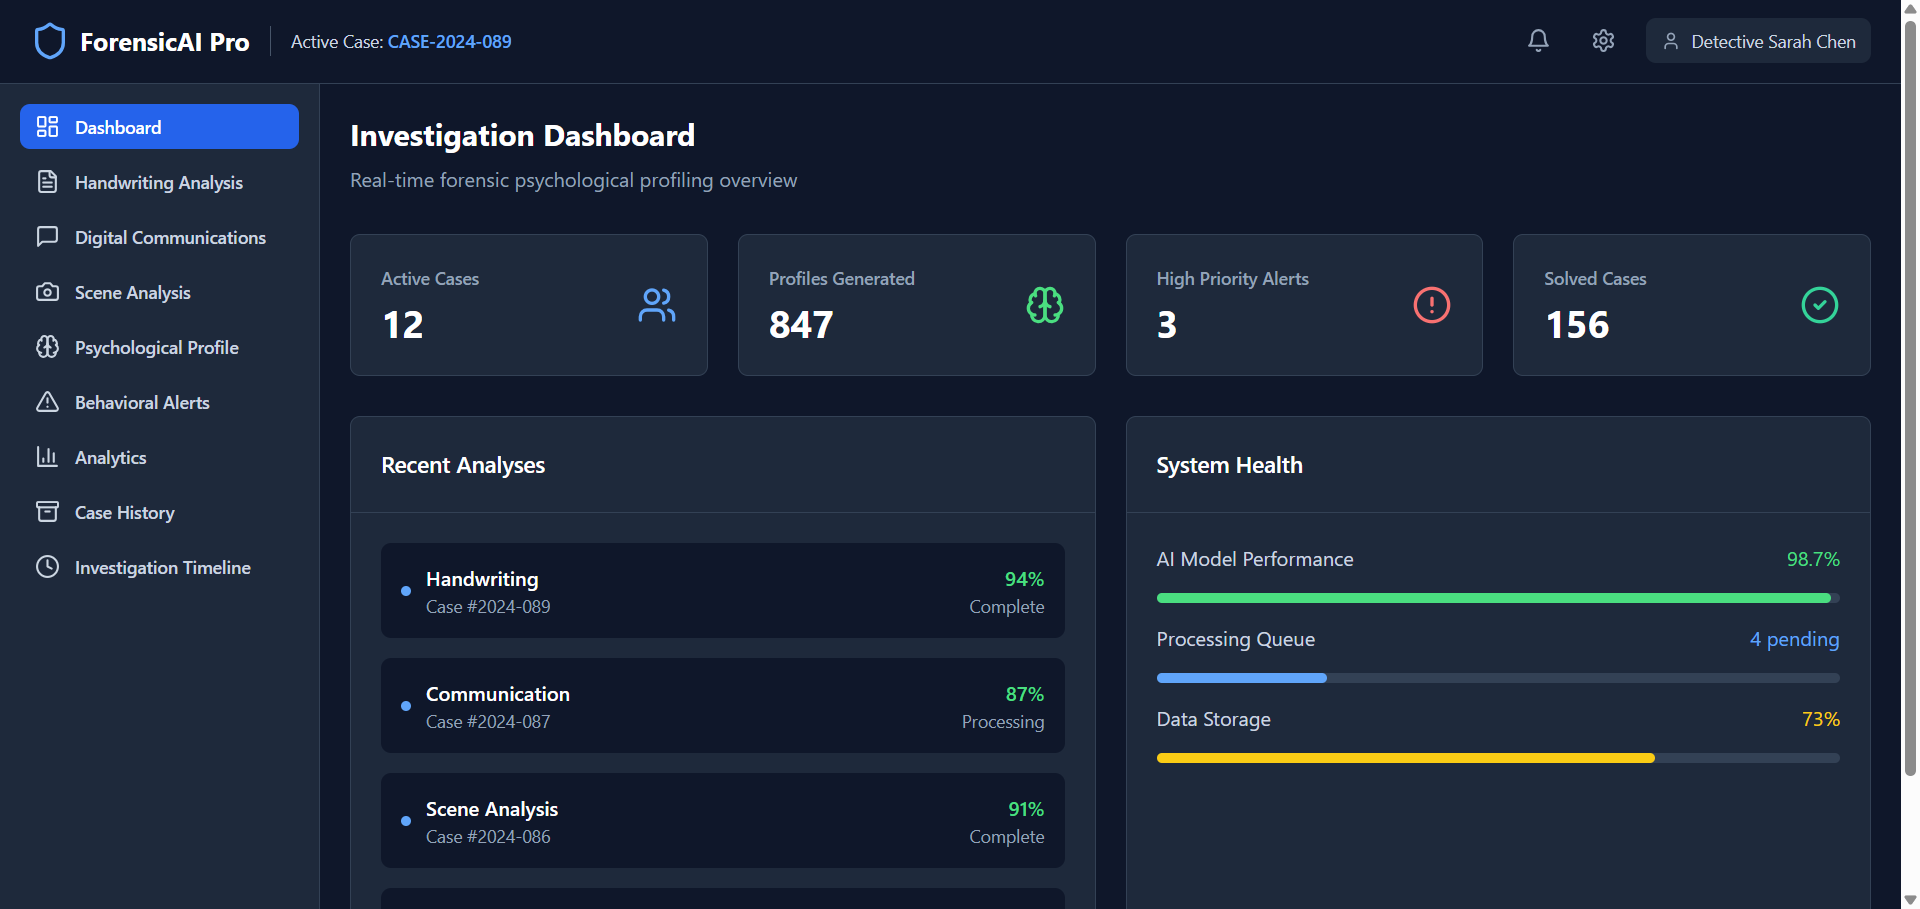
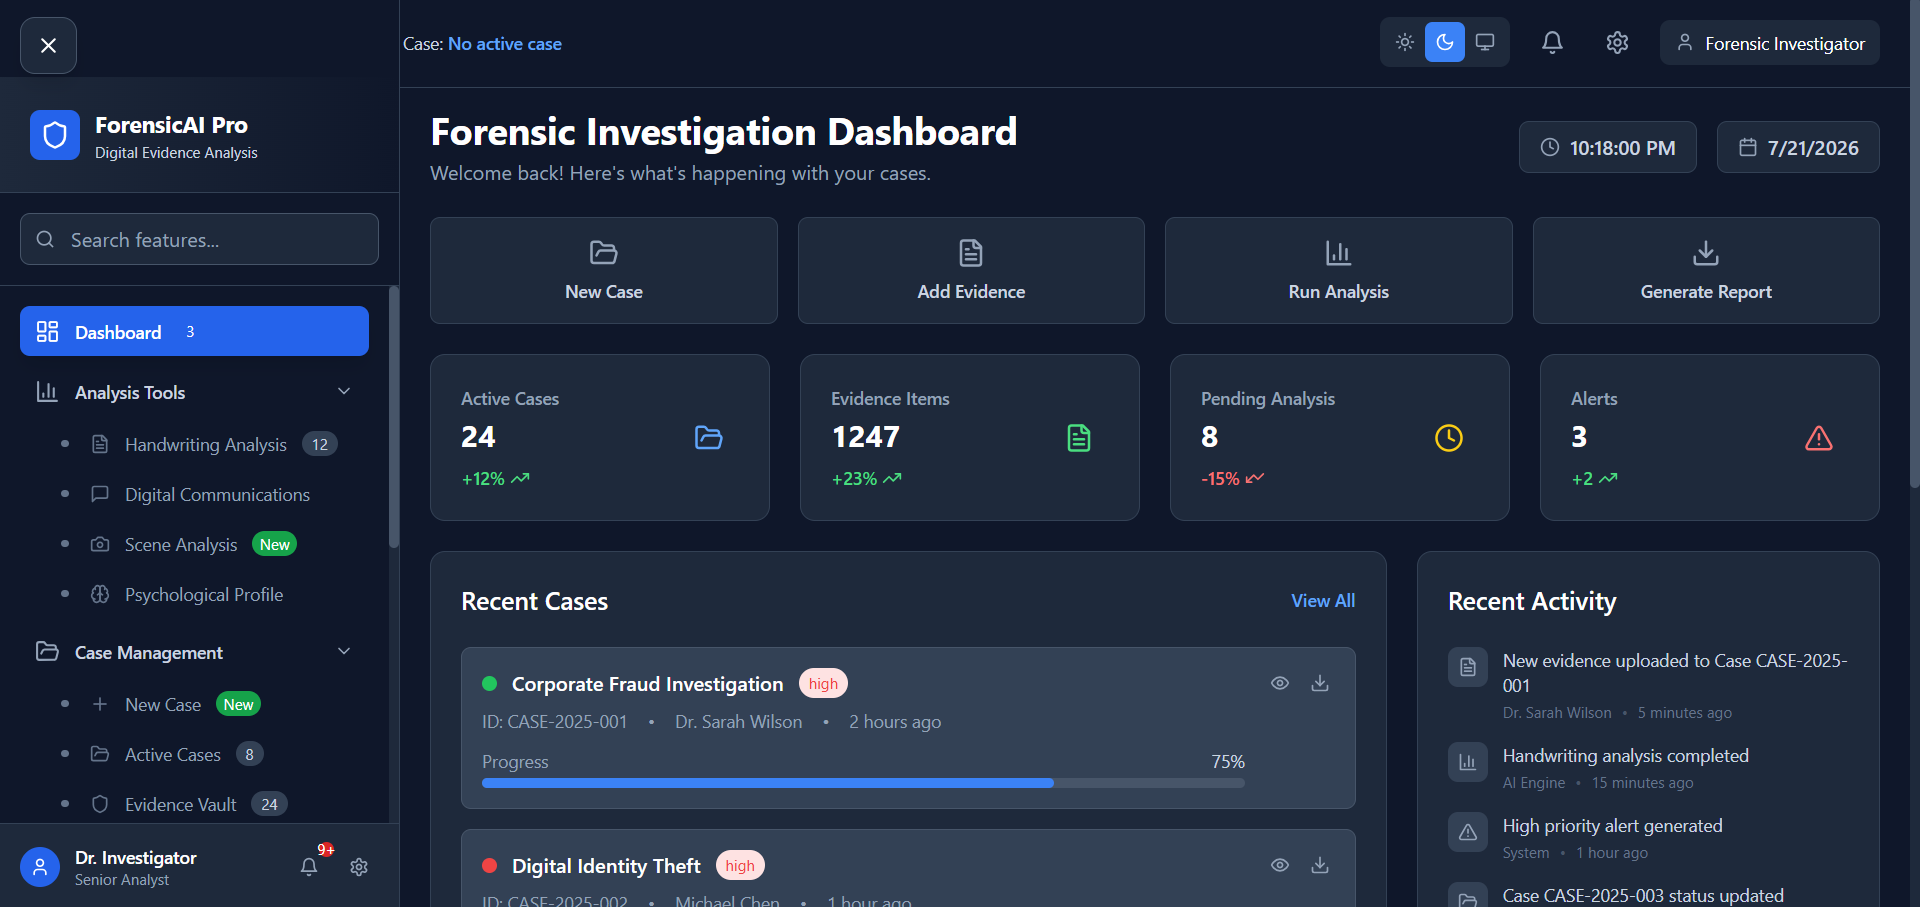
Update portfolio: Added Retail Sales Power BI project and NovyPro link

diff --git a/index.html b/index.html
@@ -596,6 +596,70 @@
 
     <div class="portfolio-content">
 
+
+      <!-- Retail Sales Analytics -->
+      <div class="project-card" data-category="ml" id="retail-sales-analytics-project">
+        <div class="img-wrap">
+          <img src="images/retail_sales.png" alt="Retail Sales Analytics" onerror="this.src='images/enterprise_ai_workflow.png'"/>
+          <a href="https://github.com/AshikaSunder-2004/Retail_Sales_Analytics_Project" target="_blank" rel="noopener" class="img-overlay">
+            <i class='bx bx-play-circle'></i>
+          </a>
+        </div>
+        <div class="card-content">
+          <span class="project-badge"><i class='bx bx-bar-chart-alt-2'></i> Data Analytics</span>
+          <h3>Retail Sales Analytics</h3>
+          <p>End-to-end data analytics project processing 9,994 orders. Built a SQLite database, authored 53 SQL queries, and ran Python EDA (ABC/Pareto analysis, RFM segmentation). Created DAX formulas for a Power BI dashboard.</p>
+          <div class="project-tags"><span>Power BI</span><span>SQL</span><span>Python</span><span>Data Analytics</span></div>
+          <div class="card-links">
+            <a href="https://github.com/AshikaSunder-2004/Retail_Sales_Analytics_Project" target="_blank" rel="noopener" class="project-link">
+              <i class='bx bxl-github'></i> GitHub Repo
+            </a>
+          </div>
+        </div>
+      </div>
+
+
+      <!-- RAG Chatbot -->
+      <div class="project-card" data-category="ai" id="rag-chatbot-project">
+        <div class="img-wrap">
+          <img src="images/rag.png" alt="RAG Chatbot" onerror="this.src='images/enterprise_ai_workflow.png'"/>
+          <a href="https://rag-website-chatbot-837hhghwwzgkrvfmexmkcy.streamlit.app/" target="_blank" rel="noopener" class="img-overlay">
+            <i class='bx bx-play-circle'></i>
+          </a>
+        </div>
+        <div class="card-content">
+          <span class="project-badge"><i class='bx bx-message-square-dots'></i> Generative AI</span>
+          <h3>RAG AI-Powered Website Chatbot</h3>
+          <p>Intelligent chatbot using semantic search and vector embeddings to enable contextual question answering from website content via ChromaDB and Gemini API.</p>
+          <div class="project-tags"><span>FastAPI</span><span>React.js</span><span>ChromaDB</span><span>Gemini API</span><span>RAG</span></div>
+          <div class="card-links">
+            <a href="https://rag-website-chatbot-837hhghwwzgkrvfmexmkcy.streamlit.app/" target="_blank" rel="noopener" class="project-link"><i class='bx bx-link-external'></i> Live Demo</a>
+          </div>
+        </div>
+      </div>
+
+      <!-- Forensic Platform -->
+      <div class="project-card" data-category="fullstack" id="forensic-platform-project">
+        <div class="img-wrap">
+          <img src="images/forensic AI screenshot.png" alt="Forensic Analysis Platform" onerror="this.src='images/enterprise_ai_workflow.png'"/>
+          <a href="https://forensic-project-ecru.vercel.app/" target="_blank" rel="noopener" class="img-overlay">
+            <i class='bx bx-play-circle'></i>
+          </a>
+        </div>
+        <div class="card-content">
+          <span class="project-badge"><i class='bx bx-shield-quarter'></i> Full-Stack</span>
+          <h3>Forensic Analysis Platform</h3>
+          <p>Digital evidence analysis platform using Django and React. Applies ML techniques for evidence classification with dashboards for case management.</p>
+          <div class="project-tags"><span>Django</span><span>React.js</span><span>Machine Learning</span><span>PostgreSQL</span></div>
+          <div class="card-links">
+            <a href="https://forensic-project-ecru.vercel.app/" target="_blank" rel="noopener" class="project-link">
+              <i class='bx bx-link-external'></i> Live Demo
+            </a>
+          </div>
+        </div>
+      </div>
+
+
       <!-- Enterprise AI Workflow (FEATURED) -->
       <div class="project-card" data-category="ai" id="enterprise-ai-project">
         <span class="featured-badge"><i class='bx bx-star'></i> Featured</span>
@@ -640,40 +704,7 @@
         </div>
       </div>
 
-      <!-- RAG Chatbot -->
-      <div class="project-card" data-category="ai" id="rag-chatbot-project">
-        <div class="img-wrap">
-          <img src="images/rag.png" alt="RAG Chatbot" onerror="this.src='images/enterprise_ai_workflow.png'"/>
-          <a href="https://rag-website-chatbot-837hhghwwzgkrvfmexmkcy.streamlit.app/" target="_blank" rel="noopener" class="img-overlay">
-            <i class='bx bx-play-circle'></i>
-          </a>
-        </div>
-        <div class="card-content">
-          <span class="project-badge"><i class='bx bx-message-square-dots'></i> Generative AI</span>
-          <h3>RAG AI-Powered Website Chatbot</h3>
-          <p>Intelligent chatbot using semantic search and vector embeddings to enable contextual question answering from website content via ChromaDB and Gemini API.</p>
-          <div class="project-tags"><span>FastAPI</span><span>React.js</span><span>ChromaDB</span><span>Gemini API</span><span>RAG</span></div>
-          <div class="card-links">
-            <a href="https://rag-website-chatbot-837hhghwwzgkrvfmexmkcy.streamlit.app/" target="_blank" rel="noopener" class="project-link"><i class='bx bx-link-external'></i> Live Demo</a>
-          </div>
-        </div>
-      </div>
-
-      <!-- Forensic Platform -->
-      <div class="project-card" data-category="fullstack" id="forensic-platform-project">
-        <div class="img-wrap">
-          <img src="images/forensic AI screenshot.png" alt="Forensic Analysis Platform" onerror="this.src='images/enterprise_ai_workflow.png'"/>
-          <div class="img-overlay"><i class='bx bx-code-block'></i></div>
-        </div>
-        <div class="card-content">
-          <span class="project-badge"><i class='bx bx-shield-quarter'></i> Full-Stack</span>
-          <h3>Forensic Analysis Platform</h3>
-          <p>Digital evidence analysis platform using Django and React. Applies ML techniques for evidence classification with dashboards for case management.</p>
-          <div class="project-tags"><span>Django</span><span>React.js</span><span>Machine Learning</span><span>PostgreSQL</span></div>
-          <div class="card-links"><a href="#" class="project-link"><i class='bx bx-link-external'></i> View Project</a></div>
-        </div>
-      </div>
-
+      
       <!-- RESQ -->
       <div class="project-card" data-category="fullstack" id="resq-app-project">
         <div class="img-wrap">
@@ -718,6 +749,8 @@
           <div class="card-links"><a href="#" class="project-link"><i class='bx bx-link-external'></i> View Project</a></div>
         </div>
       </div>
+
+      
 
     </div>
   </section>
@@ -1037,14 +1070,29 @@
         </div>
       </div>
 
-      <div class="contact-form">
-        <form action="">
-          <input type="text" id="contact-name" placeholder="Your Name" required/>
-          <input type="email" id="contact-email" placeholder="Your Email" required/>
-          <input type="text" id="contact-subject" placeholder="Subject"/>
-          <textarea id="contact-msg" rows="7" placeholder="Your Message" required></textarea>
+      <div class="contact-form" style="position: relative;">
+        <form id="contactForm" action="https://api.web3forms.com/submit" method="POST">
+          <!-- Web3Forms Configuration -->
+          <!-- ⚠ PASTE YOUR ACCESS KEY BELOW ⚠ -->
+          <input type="hidden" name="access_key" value="f2c87b96-6021-4b45-9b80-1cff5a749877">
+          
+          <input type="hidden" name="subject" value="New message from your Portfolio!">
+          <input type="hidden" name="from_name" value="Portfolio Contact Form">
+          
+          <input type="text" name="name" id="contact-name" placeholder="Your Name" required/>
+          <input type="email" name="email" id="contact-email" placeholder="Your Email" required/>
+          <input type="text" name="User Subject" id="contact-subject" placeholder="Subject"/>
+          <textarea name="message" id="contact-msg" rows="7" placeholder="Your Message" required></textarea>
           <input type="submit" value="Send Message" class="send" id="send-btn"/>
         </form>
+
+        <!-- Success Message UI -->
+        <div id="formSuccessMessage" style="display: none; text-align: center; padding: 40px 20px; background: var(--card-bg); border: 1px solid rgba(14,239,255,0.4); border-radius: 16px; box-shadow: 0 0 20px rgba(14,239,255,0.1);">
+          <i class='bx bx-check-circle' style="font-size: 64px; color: var(--cyan); margin-bottom: 16px;"></i>
+          <h3 style="color: #fff; font-size: 24px; margin-bottom: 8px;">Message Sent!</h3>
+          <p style="color: var(--text-muted); font-size: 16px; margin-bottom: 24px;">Thank you for reaching out. I'll get back to you as soon as possible.</p>
+          <button id="formResetBtn" class="btn-box" style="background: transparent; border: 2px solid var(--cyan); color: var(--cyan); padding: 10px 24px; border-radius: 8px; cursor: pointer;">Send Another Message</button>
+        </div>
       </div>
     </div>
   </section>
@@ -1215,6 +1263,61 @@
       if (target) { e.preventDefault(); target.scrollIntoView({ behavior: 'smooth' }); nav.classList.remove('open'); }
     });
   });
+
+  /* ─── Contact Form Submission ─── */
+  const contactForm = document.getElementById('contactForm');
+  const formSuccessMessage = document.getElementById('formSuccessMessage');
+  const formResetBtn = document.getElementById('formResetBtn');
+  const sendBtn = document.getElementById('send-btn');
+
+  if (contactForm) {
+    contactForm.addEventListener('submit', function(e) {
+      e.preventDefault();
+      
+      const originalBtnText = sendBtn.value;
+      sendBtn.value = "Sending...";
+      sendBtn.style.opacity = "0.7";
+      sendBtn.style.pointerEvents = "none";
+
+      const formData = new FormData(contactForm);
+      const object = Object.fromEntries(formData);
+      const json = JSON.stringify(object);
+
+      fetch('https://api.web3forms.com/submit', {
+        method: 'POST',
+        headers: {
+          'Content-Type': 'application/json',
+          'Accept': 'application/json'
+        },
+        body: json
+      })
+      .then(async (response) => {
+        if (response.status == 200) {
+          contactForm.style.display = 'none';
+          formSuccessMessage.style.display = 'block';
+          contactForm.reset();
+        } else {
+          alert("Something went wrong. Please try again.");
+        }
+      })
+      .catch(error => {
+        console.log(error);
+        alert("Something went wrong. Please try again.");
+      })
+      .finally(() => {
+        sendBtn.value = originalBtnText;
+        sendBtn.style.opacity = "1";
+        sendBtn.style.pointerEvents = "auto";
+      });
+    });
+  }
+
+  if (formResetBtn) {
+    formResetBtn.addEventListener('click', () => {
+      formSuccessMessage.style.display = 'none';
+      contactForm.style.display = 'block';
+    });
+  }
   </script>
 </body>
 </html>
